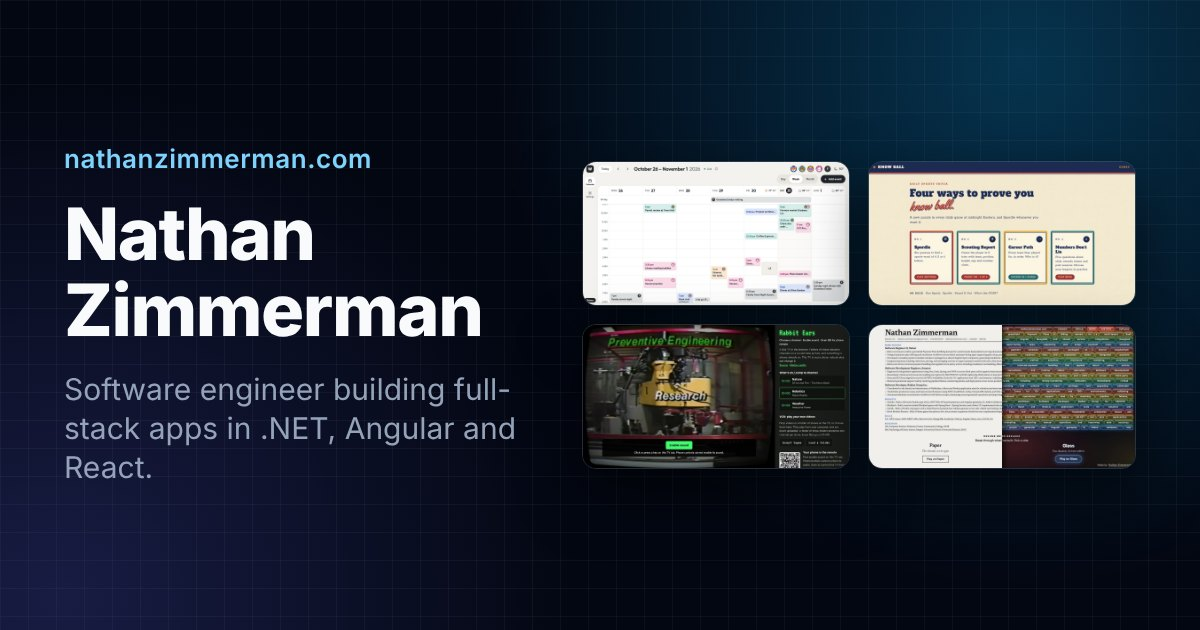
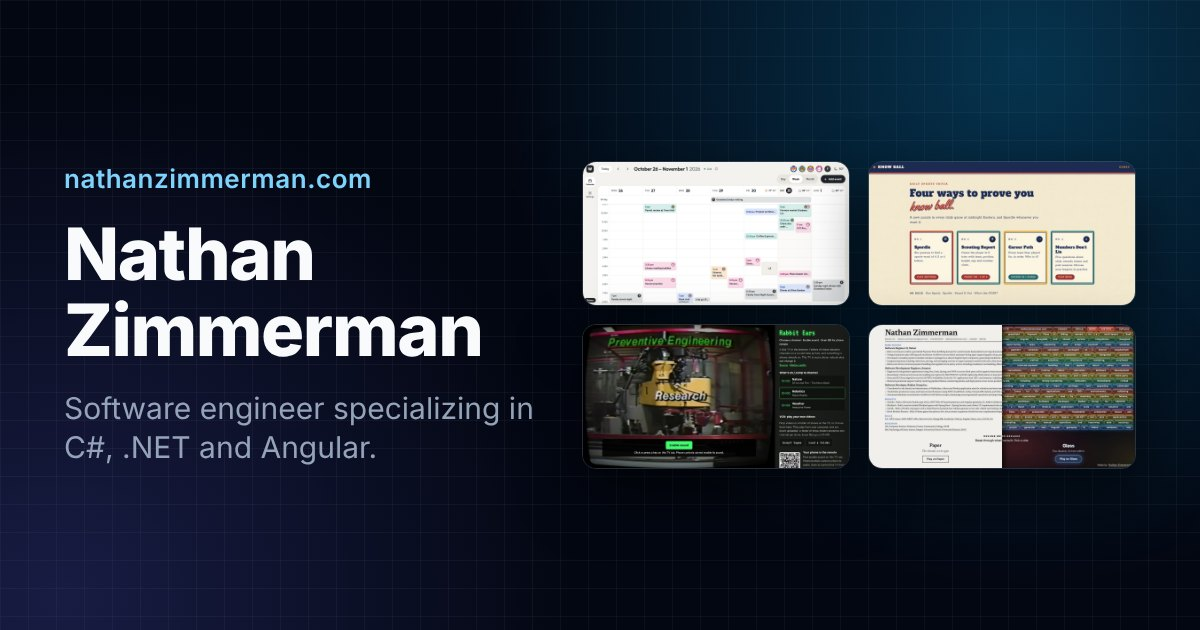
Describe my specialty as C#, .NET and Angular
The description, preview text, keywords and structured data listed a
long run of stacks, including some I no longer use. They now lead with
C#, .NET and Angular, and the site's preview card says the same.

Claude-Session: https://claude.ai/code/session_01LorK6eBtyEHj6WYqL8TGSL

Changed region(s): [[0.0308, 0.3317, 0.4008, 0.573], [0.0308, 0.6032, 0.4625, 0.754], [0.0308, 0.2413, 0.3083, 0.3016]]

diff --git a/index.html b/index.html
@@ -51,18 +51,18 @@
     <title>Nathan Zimmerman | Software Engineer</title>
     <meta
       name="description"
-      content="Nathan Zimmerman – Software Engineer specializing in React, Angular, TypeScript, Java, .NET, Node.js, MongoDB, AWS, and Azure."
+      content="Nathan Zimmerman – Software Engineer specializing in C#, .NET, and Angular, building full-stack web apps on AWS and Azure."
     />
     <meta name="author" content="Nathan Zimmerman" />
     <meta
       name="keywords"
-      content="Nathan Zimmerman, software engineer, React, Angular, TypeScript, Java, .NET, Node.js, MongoDB, AWS, Azure, web developer"
+      content="Nathan Zimmerman, software engineer, C#, .NET, ASP.NET Core, Angular, TypeScript, full-stack developer"
     />
 
     <meta property="og:title" content="Nathan Zimmerman | Software Engineer" />
     <meta
       property="og:description"
-      content="Nathan Zimmerman – Software Engineer specializing in React, Angular, TypeScript, Java, .NET, Node.js, MongoDB, AWS, and Azure."
+      content="Nathan Zimmerman – Software Engineer specializing in C#, .NET, and Angular, building full-stack web apps on AWS and Azure."
     />
     <meta property="og:type" content="website" />
     <meta property="og:site_name" content="Nathan Zimmerman" />
@@ -82,7 +82,7 @@
     <meta name="twitter:title" content="Nathan Zimmerman | Software Engineer" />
     <meta
       name="twitter:description"
-      content="Nathan Zimmerman – Software Engineer specializing in React, Angular, TypeScript, Java, .NET, Node.js, MongoDB, AWS, and Azure."
+      content="Nathan Zimmerman – Software Engineer specializing in C#, .NET, and Angular, building full-stack web apps on AWS and Azure."
     />
     <meta
       name="twitter:image"
@@ -108,12 +108,12 @@
           "https://www.linkedin.com/in/zimmermannathan"
         ],
         "knowsAbout": [
-          "React",
+          "C#",
+          ".NET",
+          "ASP.NET Core",
           "Angular",
           "TypeScript",
-          "Java",
-          ".NET",
-          "Node.js",
+          "SQL",
           "MongoDB",
           "AWS",
           "Azure"

diff --git a/src/lib/pageHead.ts b/src/lib/pageHead.ts
@@ -15,7 +15,7 @@ export type PageHead = {
 export const HOME_HEAD: PageHead = {
   title: 'Nathan Zimmerman | Software Engineer',
   description:
-    'Nathan Zimmerman – Software Engineer specializing in React, Angular, TypeScript, Java, .NET, Node.js, MongoDB, AWS, and Azure.',
+    'Nathan Zimmerman – Software Engineer specializing in C#, .NET, and Angular, building full-stack web apps on AWS and Azure.',
   path: '/',
   image: '/og-image.jpg',
 };
